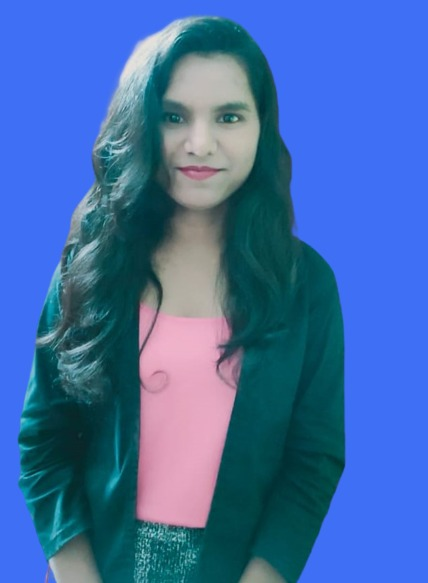
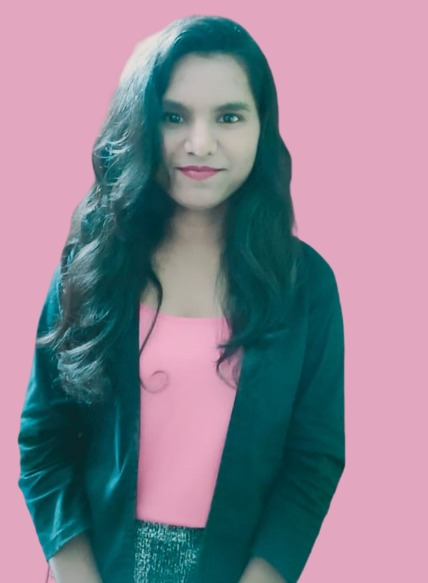
added color

diff --git a/styles.css b/styles.css
@@ -8,8 +8,10 @@
   /*Purple 260 - Red 355 - Blue 224 - Pink 340*/
   /* HSL color mode */
   --hue-color: 224;
-  --first-color: hsl(var(--hue-color), 89%, 60%);
+  /* --first-color: hsl(var(--hue-color), 89%, 60%); */
+  --first-color:#e2a6bf;
   --second-color: hsl(var(--hue-color), 56%, 12%);
+  
   /*===== Fuente y tipografia =====*/
   --body-font: "Poppins", sans-serif;
   --big-font-size: 2rem;
